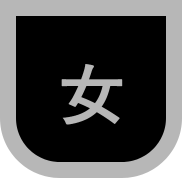
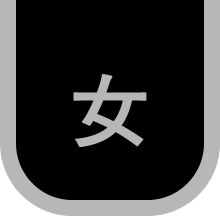
1.替换了“男”，“女”按钮的图片，增加了2个按钮之间的距离。 2.调整了标题栏左边，“今日客人”的上边距。

Changed region(s): [[0.0549, 0.0, 0.9341, 0.927], [0.3297, 0.3371, 0.6868, 0.7022]]

diff --git a/udc/lib/collector.dart b/udc/lib/collector.dart
@@ -107,24 +107,27 @@ class _CollectorState extends State<Collector> {
           mainAxisSize: MainAxisSize.max,
           mainAxisAlignment: MainAxisAlignment.spaceBetween,
           children: [
-            Padding(
-              padding: EdgeInsets.only(left: 20, top: 5),
-              child: Row(
-                children: [
-                  Column(
+            Row(
+              children: [
+                Padding(
+                  padding: EdgeInsets.only(left: 20, top: 12),
+                  child: Column(
                     children: [
                       Text("今日客人",
                           style: TextStyle(
                               color: Colors.white,
                               fontSize: 18,
                               fontWeight: FontWeight.bold)),
-                      SizedBox(height: 10),
+                      SizedBox(height: 7),
                       Text(DateTime.now().toString().substring(0, 10),
                           style: TextStyle(color: Colors.white, fontSize: 12)),
                     ],
                   ),
-                  SizedBox(width: 10),
-                  Column(children: [
+                ),
+                SizedBox(width: 10),
+                Padding(
+                  padding: EdgeInsets.only(top: 10),
+                  child: Column(children: [
                     Text(
                       "$_userCount",
                       style: TextStyle(
@@ -134,8 +137,8 @@ class _CollectorState extends State<Collector> {
                     ),
                     SizedBox(height: 15),
                   ]),
-                ],
-              ),
+                ),
+              ],
             ),
           ],
         ),
@@ -196,7 +199,7 @@ class _CollectorState extends State<Collector> {
             key: _sexKey,
             unselectedWidthDiff: 10,
             unselectedHeightDiff: 10,
-            splitWidth: 10,
+            splitWidth: 20,
             mainAxisSize: MainAxisSize.min,
             mainAxisAlignment: MainAxisAlignment.center));
   }
